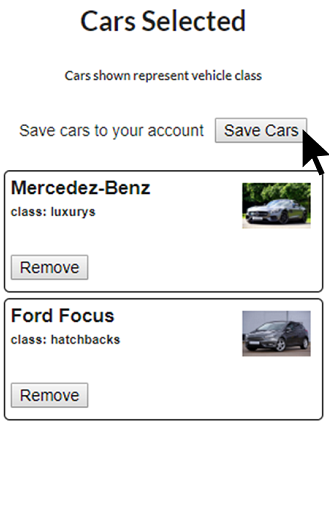
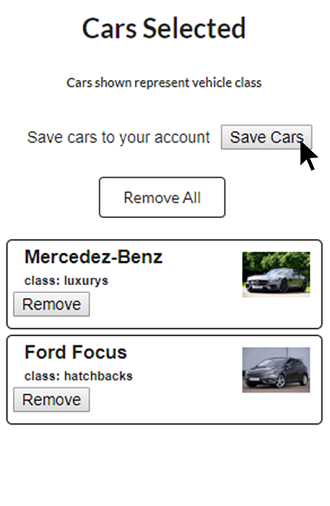
Update server and actions

Changed region(s): [[0.0, 0.2075, 1.0, 0.8597], [0.2424, 0.0, 0.7576, 0.0889], [0.1818, 0.1186, 0.8182, 0.1779]]

diff --git a/client/src/components/carAdder.js b/client/src/components/carAdder.js
@@ -3,26 +3,35 @@
 import React, { Component } from 'react'
 import { connect } from 'react-redux'
 import { Link } from 'react-router-dom';
-import { Message } from 'semantic-ui-react'
+import { Message, Button, Modal } from 'semantic-ui-react'
 import * as actions from './../actions/index'
 
 class CarAdder extends Component {
   state= {
     hasSubmitted: false,
     carLength: 0,
-    errMsg: ''
+    errMsg: '',
+    open: false
   }
 
-  deleteCar = (model) => {
-    this.props.deleteCar(model)
+  show = () => () => this.setState({ open: true })
+  close = () => this.setState({ open: false })
+
+  removeCar = (model) => {
+    this.props.removeCar(model)
+  }
+
+  removeAllCars = () => {
+    this.close()
+    this.props.removeAllCars()
   }
 
   addCars = (cars, token) => {
     if(!this.props.cars.length) {
       this.setState({errMsg: 'No cars to add'})
     }
-
-    else if(this.props.cars.length) {
+    else {
+      // State is saved to display # of cars saved to db after removal from state
       (()=>{
           this.setState({
           carLength: this.props.cars.length
@@ -35,6 +44,7 @@ class CarAdder extends Component {
         hasSubmitted: true,
         errMsg: ''
       })
+      // Resource retrieved to update info
       this.props.getResource()
     }
   }
@@ -42,8 +52,9 @@ class CarAdder extends Component {
   
   render() {
     const { cars } = this.props
-    const { carLength } = this.state
+    const { carLength, open, close } = this.state
     const token = localStorage.getItem('WEB_TOKEN')
+
     const carList = this.props.cars.length ? (
       cars.map(car => {
         return (
@@ -53,7 +64,7 @@ class CarAdder extends Component {
             <span>class: {car.carClass}</span>
             <img src={require(`../images/${car.carClass}.jpeg`)} alt={car.carClass}/>
             <br />
-            <button onClick={() => this.deleteCar(car.model)}>Remove</button>
+            <button onClick={() => this.removeCar(car.model)}>Remove</button>
           </div>
         )
       })
@@ -75,6 +86,7 @@ class CarAdder extends Component {
               <button onClick={() => this.addCars(cars, token)}>Save Cars</button>
               <br />
               {
+                // Cars must be saved to state in order to add to db
                 this.state.errMsg && !this.state.hasSubmitted ?
                   <Message warning compact>
                     <Message.Header align='center'>
@@ -87,6 +99,7 @@ class CarAdder extends Component {
                 : null
               }
               {
+                // Message shown when car data submitted to db
                 this.state.hasSubmitted ?
                 <Message positive compact>
                   <Message.Header align='center'>
@@ -99,6 +112,23 @@ class CarAdder extends Component {
             </div>
           : <p>Sign in to add cars to your account</p>
         }
+        <br />
+        <Modal size='mini' open={open} onClose={close}>
+          <Modal.Header>Remove all cars</Modal.Header>
+          <Modal.Content>
+            <p>This will remove all cars selected</p>
+          </Modal.Content>
+          <Modal.Actions>
+            <Button negative onClick={this.close}>No</Button>
+            <Button 
+              positive
+              content='Yes' 
+              onClick={this.removeAllCars} 
+            />
+          </Modal.Actions>
+        </Modal>
+        <Button disabled={!cars.length ? true : null} basic color='black' onClick={this.show()}> Remove All</Button>
+        <br />
         <br />
         {carList}
         </div>

diff --git a/client/src/components/account.js b/client/src/components/account.js
@@ -29,21 +29,21 @@ class Account extends Component {
     }
   })
 
-  deleteCar = model => {
-    this.props.removeCar(model)
+  handleChange = (event) => {
+    this.setState({password: event.target.value})
   }
 
-  removeAllCars = () => {
+  deleteCar = model => {
+    this.props.deleteCar(model)
+  }
+
+  deleteAllCars = () => {
     this.close()
     this.props.deleteAllCars()
   }
 
   signOut = () => {
     this.props.signOut()
-  }
-
-  handleChange = (event) => {
-    this.setState({password: event.target.value})
   }
 
   deleteUser = () => {
@@ -118,15 +118,15 @@ class Account extends Component {
               <Modal size='mini' open={delCars.open} onClose={this.close}>
                 <Modal.Header>Delete all your cars</Modal.Header>
                 <Modal.Content>
-                  <p>This will remove all cars from your account</p>
+                  <p>This will delete all cars from your account</p>
                 </Modal.Content>
                 <Modal.Actions>
+                  <Button negative onClick={this.close}>No</Button>
                   <Button 
                     positive
                     content='Yes' 
-                    onClick={this.removeAllCars} 
+                    onClick={this.deleteAllCars} 
                   />
-                  <Button negative onClick={this.close}>No</Button>
                 </Modal.Actions>
               </Modal>
               
@@ -153,25 +153,21 @@ class Account extends Component {
                 }
                 </Modal.Content>
                 <Modal.Actions>
+                  <Button type='submit' negative onClick={this.close}>cancel</Button>
                   <Button 
                     positive
                     content='delete' 
                     onClick={this.deleteUser} 
                     form='delForm'
                   />
-                  <Button type='submit' negative onClick={this.close}>cancel</Button>
                 </Modal.Actions>
                 
               </Modal>
             </div>
           
             <h3>{this.props.userInfo.userCars.length} cars saved</h3> 
-            {/* Delete all cars button shows only if cars in users account */}
-              {
-                userCars.length ?
-                <Button basic color='red' onClick={this.show('delCars')}>Delete All Cars</Button>
-                : null
-              }
+
+                <Button disabled={!userCars.length ? true : null} basic color='red' onClick={this.show('delCars')}>Delete All Cars</Button>
               <br />
               <br />
               {carList}

diff --git a/client/src/actions/index.js b/client/src/actions/index.js
@@ -6,11 +6,11 @@ import {
   ACCESS_RESOURCE, 
   AUTH_ERROR, 
   CLEAR_ERROR,
-  DELETE_ALL_CARS,
-  REMOVE_CAR_DB,
-  REMOVE_ALL_CARS_DB,
+  DELETE_CAR_DB,
+  DELETE_ALL_CARS_DB,
   ADD_CAR, 
-  DELETE_CAR 
+  REMOVE_CAR,
+  REMOVE_ALL_CARS
 } from './types'
 
 
@@ -151,8 +151,10 @@ export const submitCars = (data) => {
   return async dispatch => { 
     try {
       await axios.put('http://localhost:5000/addcar', data)
+
+      // Cars are removed from store when added to account
       dispatch({
-        type: DELETE_ALL_CARS,
+        type: REMOVE_ALL_CARS,
         payload: []
       }) 
     }
@@ -164,12 +166,12 @@ export const submitCars = (data) => {
 
 
 // Deletes selected car from user's account
-export const removeCar = (data) => {
+export const deleteCar = (data) => {
   return async dispatch => { 
     try {
-      await axios.delete('http://localhost:5000/removeCar', {data})
+      await axios.delete('http://localhost:5000/deleteCar', {data})
       dispatch({
-        type: REMOVE_CAR_DB,
+        type: DELETE_CAR_DB,
         payload: data
       }) 
     }
@@ -186,7 +188,7 @@ export const deleteAllCars = () => {
     try {
       await axios.delete('http://localhost:5000/deleteAllCars')
       dispatch({
-        type: REMOVE_ALL_CARS_DB
+        type: DELETE_ALL_CARS_DB
       }) 
     }
     catch(err) {
@@ -207,12 +209,22 @@ export const addCar = (model) => {
 }
 
 
-// Remove cars from store
-export const deleteCar = (model) => {
+// Remove selected car from store
+export const removeCar = (model) => {
   return dispatch => { 
     dispatch({
-      type: DELETE_CAR, 
+      type: REMOVE_CAR, 
       model
+    }) 
+  }
+}
+
+// Removes all cars from store
+export const removeAllCars = (model) => {
+  return dispatch => { 
+    dispatch({
+      type: REMOVE_ALL_CARS,
+      payload: []
     }) 
   }
 }

diff --git a/client/src/reducers/carReducer.js b/client/src/reducers/carReducer.js
@@ -1,13 +1,14 @@
 import { 
-  DELETE_ALL_CARS,
   ADD_CAR, 
-  DELETE_CAR 
+  REMOVE_CAR,
+  REMOVE_ALL_CARS
 } from '../actions/types'
 
 const INITIAL_STATE = {
   models: []
 }
 
+// Car reducer handles locally stored cars, not on db
 const carReducer = (state = INITIAL_STATE, action) => {
   if(action.type === ADD_CAR) {
     let list = state.models.filter(car => {
@@ -18,7 +19,7 @@ const carReducer = (state = INITIAL_STATE, action) => {
     }
   }
 
-  else if(action.type === DELETE_CAR) {
+  else if(action.type === REMOVE_CAR) {
     let newList = state.models.filter(car => {
       return action.model !== car.model 
     })
@@ -27,7 +28,7 @@ const carReducer = (state = INITIAL_STATE, action) => {
     }
   }
 
-  else if(action.type === DELETE_ALL_CARS) {
+  else if(action.type === REMOVE_ALL_CARS) {
     return {
       models: action.payload
     }

diff --git a/client/src/reducers/resourceReducer.js b/client/src/reducers/resourceReducer.js
@@ -1,8 +1,8 @@
 import { 
   ACCESS_RESOURCE, 
-  REMOVE_CAR_DB, 
   SIGN_OUT,
-  REMOVE_ALL_CARS_DB 
+  DELETE_CAR_DB, 
+  DELETE_ALL_CARS_DB 
 } from '../actions/types'
 
 const INITIAL_STATE = {
@@ -15,7 +15,7 @@ const authReducer = (state = INITIAL_STATE, action) => {
     return { ...state, userCars: action.payload.cars, userName: action.payload.name }
   }
 
-  if(action.type === REMOVE_CAR_DB){
+  if(action.type === DELETE_CAR_DB){
     let newList = state.userCars.filter(car => {
       return action.payload !== car
     })
@@ -24,7 +24,7 @@ const authReducer = (state = INITIAL_STATE, action) => {
     }
   }
 
-  if(action.type === REMOVE_ALL_CARS_DB){
+  if(action.type === DELETE_ALL_CARS_DB){
     return { ...state, userCars: []}
   }
 

diff --git a/client/src/actions/types.js b/client/src/actions/types.js
@@ -4,8 +4,8 @@ export const SIGN_OUT = 'SIGN_OUT'
 export const ACCESS_RESOURCE = 'ACCESS_RESOURCE'
 export const AUTH_ERROR = 'AUTH_ERROR'
 export const CLEAR_ERROR = 'CLEAR_ERROR'
-export const DELETE_ALL_CARS = 'DELETE_ALL_CARS'
-export const REMOVE_CAR_DB = 'REMOVE_CAR_DB'
-export const REMOVE_ALL_CARS_DB = 'REMOVE_ALL_CARS_DB'
+export const DELETE_CAR_DB = 'DELETE_CAR_DB'
+export const DELETE_ALL_CARS_DB = 'DELETE_ALL_CARS_DB'
 export const ADD_CAR = 'ADD_CAR'
-export const DELETE_CAR = 'DELETE_CAR'
+export const REMOVE_CAR = 'REMOVE_CAR'
+export const REMOVE_ALL_CARS = 'REMOVE_ALL_CARS'

diff --git a/server/routes/user_api.js b/server/routes/user_api.js
@@ -116,8 +116,8 @@ router.put('/addcar',
   }
 )
 
-// Remove individual cars from users account
-router.delete('/removeCar',
+// Delete individual cars from users account
+router.delete('/deleteCar',
   passport.authenticate('jwt', { session: false }),
   (req, res) => {
 
@@ -134,7 +134,7 @@ router.delete('/removeCar',
   }
 )
 
-// Remove all cars from users account
+// Delete all cars from users account
 router.delete('/deleteAllCars',
   passport.authenticate('jwt', { session: false }),
   (req, res) => {

diff --git a/server/server.js b/server/server.js
@@ -26,7 +26,7 @@ app.use(passport.initialize());
 app.use(require('./routes/car_api'))
 app.use(require('./routes/user_api'))
 
-// Production 
+// Production setup 
 if(config.env === 'production') {
   app.use(express.static('client/build'))
 
@@ -40,6 +40,7 @@ if(config.env === 'production') {
 app.use((err, req, res, next) => {
   res.status(422).send({error: err.message})
 })
+
 
 const port = process.env.PORT || 5000
 app.listen(port, () => {

diff --git a/server/config/env/index.js b/server/config/env/index.js
@@ -1,2 +1,6 @@
-const env = process.env.NODE_ENV;
-module.exports  = require(`../${env}`);
+if (process.env.NODE_ENV === 'production') {
+  module.exports = require('../production');
+} else {
+  module.exports = require('../development');
+}
+

diff --git a/client/src/components/vehicles/carModels.js b/client/src/components/vehicles/carModels.js
@@ -31,7 +31,7 @@ class CarModels extends Component {
             this.props.addCar(model);
         }
         else {
-            this.props.deleteCar(obj[0].model)
+            this.props.removeCar(obj[0].model)
         }
     }
 
